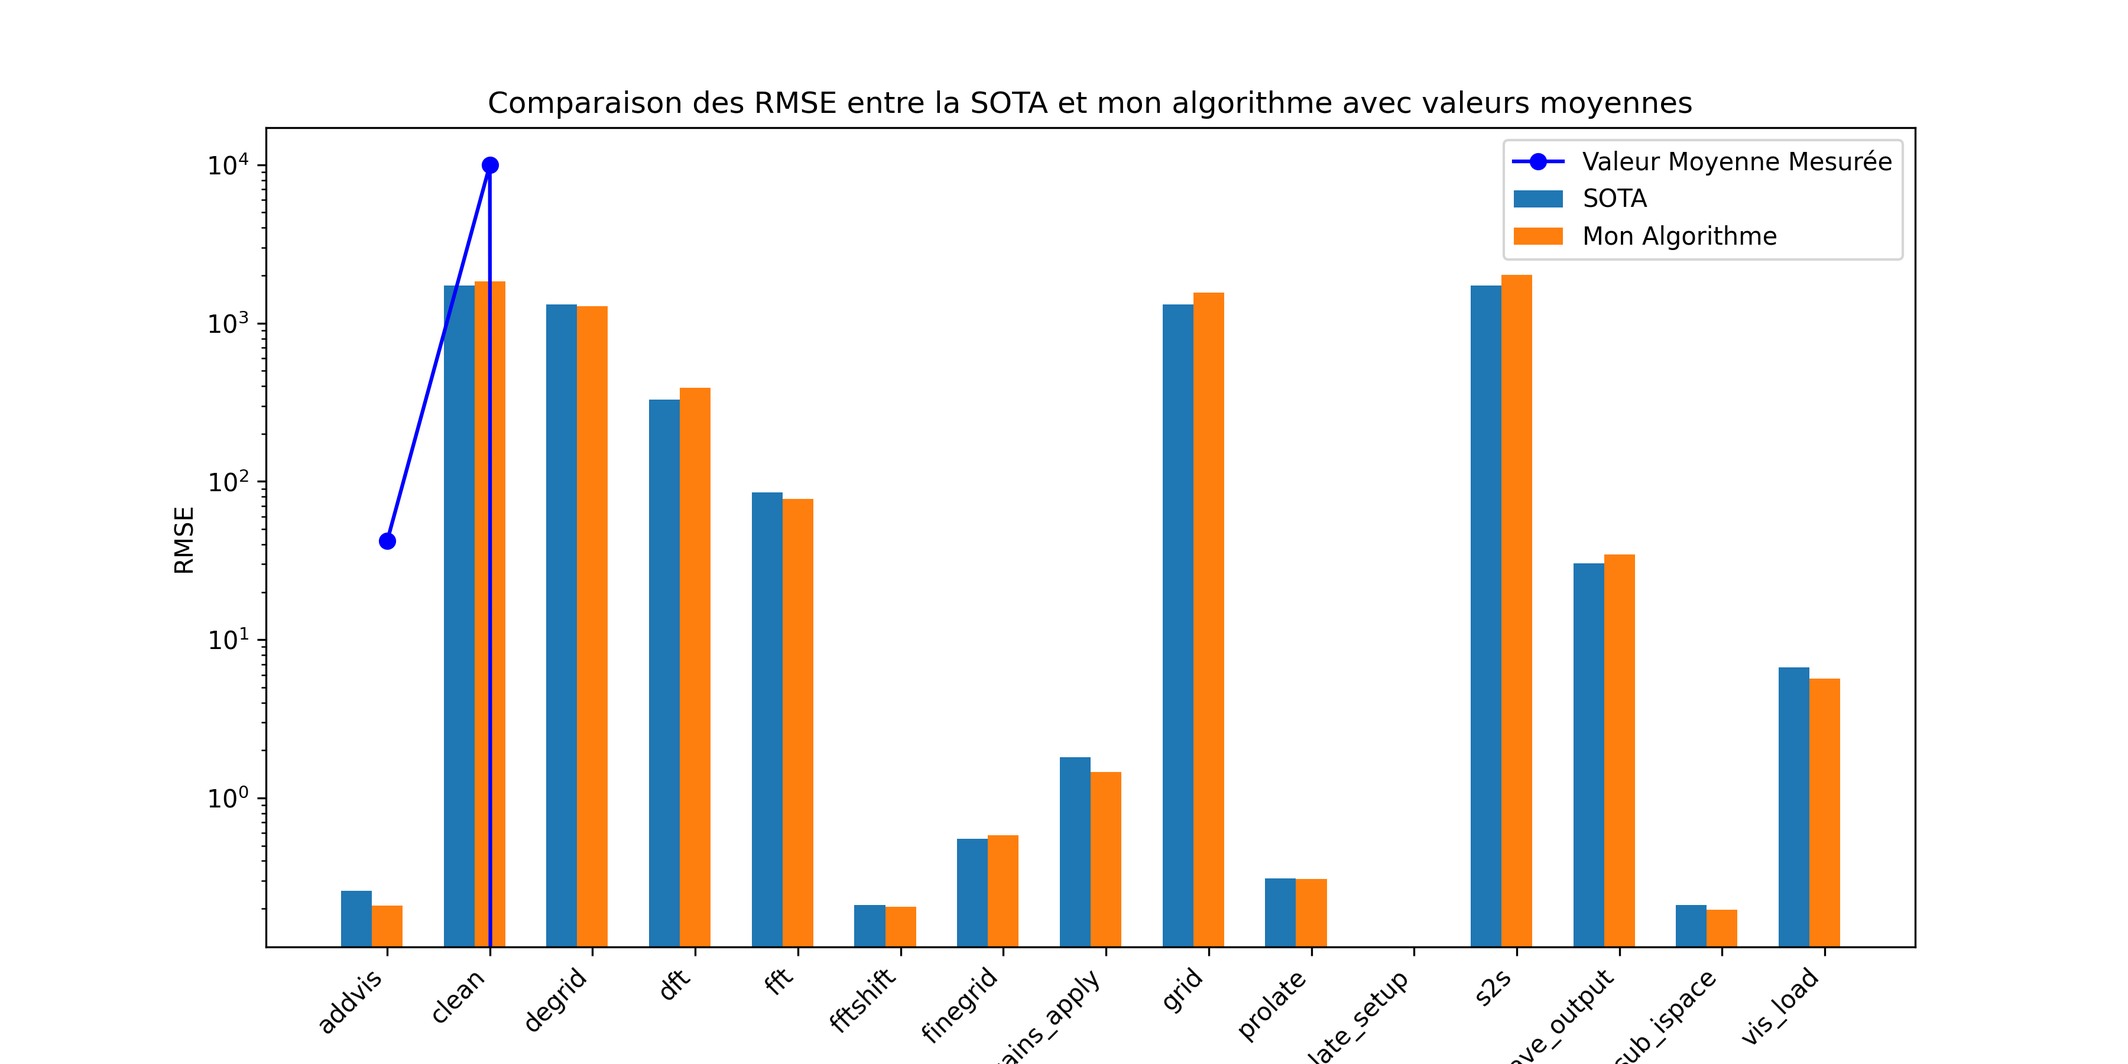
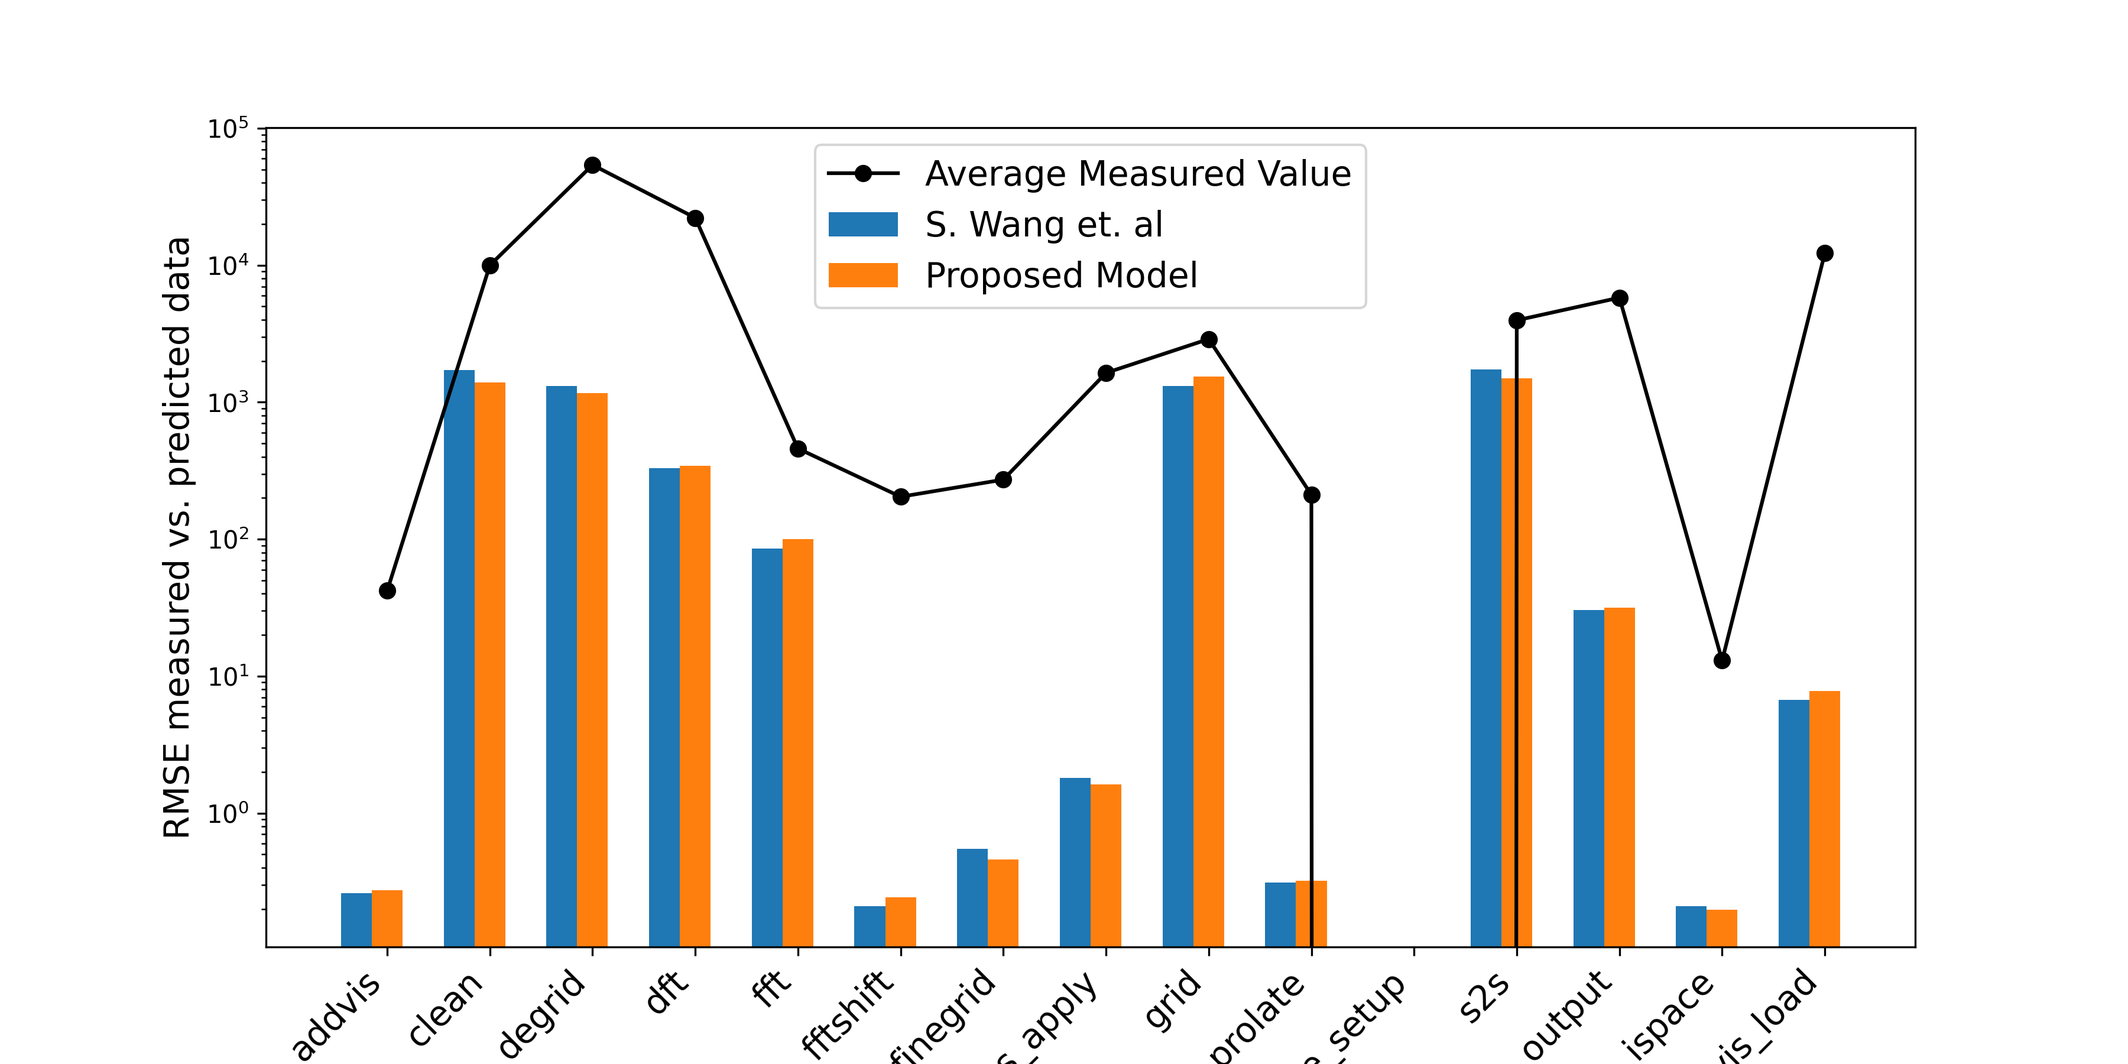
Signed-off-by: Ophélie Renaud <ophelie.renaud508@gmail.com>

diff --git a/polynomial_timing/timing_cpu/timing_benchmark_generation.py b/polynomial_timing/timing_cpu/timing_benchmark_generation.py
@@ -93,18 +93,18 @@ def extract_parts(filename):
 # Définition des Tests
 # ================================
 tests = [
-    #("time_constant_setups", [NUM_SAMPLES]), #int NUM_SAMPLES
-    #("time_gridsize_setups", [NUM_SAMPLES, (G0, Gf, Gs)]), #int NUM_SAMPLES, int GRID_SIZE
-    #("time_visibility_setups", [NUM_SAMPLES, (V0, Vf, Vs)]), #int NUM_SAMPLES, int NUM_VISIBILITIES
-    #("time_save_output", [NUM_SAMPLES, (G0, Gf, Gs)]), #int NUM_SAMPLES, int GRID_SIZE
-    #("time_dft", [NUM_SAMPLES, (C0, Cf, Cs), (V0, Vf, Vs), V0]), #int NUM_SAMPLES, int NUM_MINOR_CYCLES, int NUM_VISIBILITIES, int NUM_ACTUAL_VISIBILITIES
-    #("time_gains_application", [NUM_SAMPLES, (V0, Vf, Vs), V0]), #int NUM_SAMPLES, int NUM_VISIBILITIES, int NUM_ACTUAL_VISIBILITIES
-   # ("time_add_visibilities", [NUM_SAMPLES, (V0, Vf, Vs)]), #int NUM_SAMPLES, int NUM_VISIBILITIES
-   # ("time_prolate", [NUM_SAMPLES, (G0, Gf, Gs)]), #int NUM_SAMPLES, int GRID_SIZE
-   # ("time_finegrid", [NUM_SAMPLES, (V0, Vf, Vs), V0]), #int NUM_SAMPLES, int NUM_VISIBILITIES, int NUM_ACTUAL_VISIBILITIES
-   # ("time_subtract_ispace", [NUM_SAMPLES, (G0, Gf, Gs)]), #int NUM_SAMPLES, int GRID_SIZE
-   # ("time_fftshift", [NUM_SAMPLES, (G0, Gf, Gs)]), #int NUM_SAMPLES, int GRID_SIZE
-    #("time_fft", [NUM_SAMPLES, (G0, Gf, Gs)]), #int NUM_SAMPLES, int GRID_SIZE
+    ("time_constant_setups", [NUM_SAMPLES]), #int NUM_SAMPLES
+    ("time_gridsize_setups", [NUM_SAMPLES, (G0, Gf, Gs)]), #int NUM_SAMPLES, int GRID_SIZE
+    ("time_visibility_setups", [NUM_SAMPLES, (V0, Vf, Vs)]), #int NUM_SAMPLES, int NUM_VISIBILITIES
+    ("time_save_output", [NUM_SAMPLES, (G0, Gf, Gs)]), #int NUM_SAMPLES, int GRID_SIZE
+    ("time_dft", [NUM_SAMPLES, (C0, Cf, Cs), (V0, Vf, Vs), V0]), #int NUM_SAMPLES, int NUM_MINOR_CYCLES, int NUM_VISIBILITIES, int NUM_ACTUAL_VISIBILITIES
+    ("time_gains_application", [NUM_SAMPLES, (V0, Vf, Vs), V0]), #int NUM_SAMPLES, int NUM_VISIBILITIES, int NUM_ACTUAL_VISIBILITIES
+    ("time_add_visibilities", [NUM_SAMPLES, (V0, Vf, Vs)]), #int NUM_SAMPLES, int NUM_VISIBILITIES
+    ("time_prolate", [NUM_SAMPLES, (G0, Gf, Gs)]), #int NUM_SAMPLES, int GRID_SIZE
+    ("time_finegrid", [NUM_SAMPLES, (V0, Vf, Vs), V0]), #int NUM_SAMPLES, int NUM_VISIBILITIES, int NUM_ACTUAL_VISIBILITIES
+    ("time_subtract_ispace", [NUM_SAMPLES, (G0, Gf, Gs)]), #int NUM_SAMPLES, int GRID_SIZE
+    ("time_fftshift", [NUM_SAMPLES, (G0, Gf, Gs)]), #int NUM_SAMPLES, int GRID_SIZE
+    ("time_fft", [NUM_SAMPLES, (G0, Gf, Gs)]), #int NUM_SAMPLES, int GRID_SIZE
     ("time_hogbom", [NUM_SAMPLES, (G0, Gf, Gs),(C0, Cf, Cs)]), # int NUM_SAMPLES, int GRID_SIZE, int NUM_MINOR_CYCLES
 ]
 

diff --git a/polynomial_timing/timing_cpu/src/timings.c b/polynomial_timing/timing_cpu/src/timings.c
@@ -536,3 +536,52 @@ void time_hogbom(int NUM_SAMPLES, int GRID_SIZE, int NUM_MINOR_CYCLES){
 	free(in);
 	free(out);
 }
+void time_grid(int NUM_SAMPLES, int GRID_SIZE, int NUM_VISIBILITIES){
+  	clock_t* grid_timings = (clock_t*)malloc(NUM_SAMPLES * sizeof(clock_t));
+
+	clock_t start, end;
+	clock_t CLOCKS_PER_MS = CLOCKS_PER_SEC / 1000;
+
+  int num_kernel = 0;
+  int total_kernel_samples = 0;
+
+  	PRECISION2* kernels = (PRECISION2*)malloc(sizeof(PRECISION2) * GRID_SIZE * GRID_SIZE);
+	for(int i = 0; i < GRID_SIZE * GRID_SIZE; ++i){
+		kernels[i] = (float)rand()/(float)RAND_MAX;
+	}
+    int2* kernel_supports = (int2*)malloc(sizeof(int2) * GRID_SIZE * GRID_SIZE);
+	for(int i = 0; i < GRID_SIZE * GRID_SIZE; ++i){
+		kernel_supports[i] = (int)rand()/(int)RAND_MAX;
+	}
+    PRECISION3* vis_uvw_coords = (PRECISION3*)malloc(sizeof(PRECISION3) * GRID_SIZE * GRID_SIZE);
+	for(int i = 0; i < GRID_SIZE * GRID_SIZE; ++i){
+		vis_uvw_coords[i] = (float)rand()/(float)RAND_MAX;
+	}
+    PRECISION2* visibilities = (PRECISION2*)malloc(sizeof(PRECISION2) * GRID_SIZE * GRID_SIZE);
+	for(int i = 0; i < GRID_SIZE * GRID_SIZE; ++i){
+		visibilities[i] = (float)rand()/(float)RAND_MAX;
+	}
+    Config config;
+	config_struct_set_up(GRID_SIZE, 17, &config);
+	config.weak_source_percent_gc = 0;
+	config.weak_source_percent_img = 0;
+	config.psf_max_value = 1.f;
+
+    PRECISION2* uv_grid = (PRECISION2*)malloc(sizeof(PRECISION2) * GRID_SIZE * GRID_SIZE);
+
+  	for(int i = 0; i < NUM_SAMPLES; ++i){
+		start = clock();
+		gridding_actor(GRID_SIZE, NUM_VISIBILITIES, num_kernel, total_kernel_samples, kernels, kernel_supports,vis_uvw_coords,visibilities, &config,uv_grid);
+		end = clock();
+		grid_timings[i] = ((double) (end - start)) / CLOCKS_PER_MS + 0.5;
+	}
+    save_timings(NUM_SAMPLES, "grid_timings", grid_timings, GRID_SIZE, NUM_VISIBILITIES,0);
+
+    free(kernels);
+    free(kernel_supports);
+    free(vis_uvw_coords);
+    free(visibilities);
+    free(uv_grid);
+
+
+}

diff --git a/polynomial_timing/plot_rmse_compare.py b/polynomial_timing/plot_rmse_compare.py
@@ -10,7 +10,7 @@ sota_rmse = [0.26, 1722.01, 1310.35, 328.79, None, 85.37, 0.21, 0.55, 1.81, None
 my_rmse = [rmse * random.uniform(0.8, 1.2) if rmse is not None else None for rmse in sota_rmse]
 
 # Valeurs moyennes mesurées
-average_measure = [42, 9990, 0, 0, 0, 0, 0, 0, 0, 0, 0, 0, 0, 0, 0, 0, 0]
+average_measure = [42, 9990, 53963, 22174, 58, 459, 204, 272, 1636, 53, 2890, 211, 0, 3961, 5794, 13, 12223]
 
 # Filtrer les valeurs valides
 indices = [i for i, rmse in enumerate(sota_rmse) if rmse is not None]
@@ -28,20 +28,20 @@ fig, ax = plt.subplots(figsize=(12, 6))
 width = 0.3  # Largeur des barres
 
 # Barres pour la SOTA
-ax.bar(x - width, sota_valid, width, label='SOTA')
+ax.bar(x - width, sota_valid, width, label='S. Wang et. al')
 
 # Barres pour ton algo
-ax.bar(x, my_valid, width, label='Mon Algorithme')
+ax.bar(x, my_valid, width, label='Proposed Model')
 
 # Courbe des valeurs moyennes mesurées
-ax.plot(x, avg_valid, marker='o', linestyle='-', color='blue', label='Valeur Moyenne Mesurée')
+ax.plot(x, avg_valid, marker='o', linestyle='-', color='black', label='Average Measured Value')
 
 # Labels et légende
 ax.set_xticks(x)
-ax.set_xticklabels(labels, rotation=45, ha='right')
-ax.set_ylabel("RMSE")
-ax.set_title("Comparaison des RMSE entre la SOTA et mon algorithme avec valeurs moyennes")
-ax.legend()
+ax.set_xticklabels(labels, rotation=45, ha='right', fontsize=14)
+ax.set_ylabel("RMSE measured vs. predicted data", fontsize=14)
+#ax.set_title("Comparaison des RMSE entre la SOTA et mon algorithme avec valeurs moyennes")
+ax.legend(fontsize=14)
 ax.set_yscale('log')
 
 # Enregistrer la figure en PNG

diff --git a/README.md b/README.md
@@ -13,7 +13,7 @@ Algorithm performance is influenced by parameters such as the number of visibili
 
 To achieve this, we provide tools that automatically estimate the execution time of dataflow actors for each targeted architecture and simulate algorithm performance by varying a set of parameter values automatically.
 
-<img src="https://raw.githubusercontent.com/Ophelie-Renaud/simsdp-generic-imaging-pipeline/refs/heads/main/experimental_result_data/project_goal2.png" style="zoom:50%;" />
+<img src="https://raw.githubusercontent.com/Ophelie-Renaud/simsdp-generic-imaging-pipeline/refs/heads/main/experimental_result_data/project_goal2.png" style="zoom:30%;" />
 
 ---
 
@@ -81,124 +81,22 @@ This repository contains six main directories, categorized by the number of freq
 ### Parameterized timing estimation
 <details>
     <summary style="cursor: pointer; color: #007bff;"> Click here to reveal the section </summary>
-
-Timings definition consist in polynomials calculation, the procedure is the following. For each dataflow pipeline configuration do:
-This section consist in setting up a method to define actor timings with a fitting function to facilitate algorithm comparison varying parameters. The method consist in building sampling (stored in /averages folder) and compute fitting function for each actor. Here are the instruction for running the method build by Sunrise Wang which a manual method evaluating few samples of data. The automated method extending Sunrise\'s work can be found in [polynomials_timing](https://gitlab-research.centralesupelec.fr/dark-era/simsdp-generic-imaging-pipeline/-/tree/main/polynomial_timing?ref_type=heads) folder. Here are the manual and tedious method:
-
-1. Build the the benchmark that will be stored in [averages](https://gitlab-research.centralesupelec.fr/dark-era/simsdp-generic-imaging-pipeline/-/tree/main/polynomial_timing/averages?ref_type=heads) folder:
-   1. In **PREESM**, the timings algorithm are provided in the algo/ folder select for example `grid_timing.diagram` and tune the parameter values: `NUM_VIS` [1000000; 2000000;3000000;4000000], `GRID_SIZE` [65536; 262144; 589824; 1048576; 1638400; 2359296; 3211264; 4194304]; , `NUM_MINOR_CYCLE`.
-   2. Open `timing.scenario` and check that the algorithm is `grid_timing.pi`
-   3. Generated the code: click on `codegen2.worklow` > `run workflow` > select `timing.scenario. This has to be done for each configuration.
-   
-2. Run the code: `cd Code` > `cmake.` > `make` > `./project_name`, a file with the computed timing is generated in the folder.
-
-3. For each configuration concatenate the file such as : `time acquisition1; GRID_SIZE1; NUM_VISIBILITY1;time acquisition2; GRID_SIZE2; NUM_VISIBILITY2;...`
-
-4. Executing the `plot_and_fit_averages.py` script to obtain the fit function. Install scipy `pip install scipy`. Execute : `python plot_and_fit_averages.py <input_file> <num_axis[1-2]> <dof[1-2]> <num_x_datapoints[1]> <num_y_datapoints [file_len/3]>` where the two last parameter are used for deconv,degridding etc. ex `python plot_and_fit_averages.py degrid.csv 2 1 8 4`(on the benchmark there is 8 GRID_SIZE and 4 NUM_VIS).
-
-   <div style="text-align: center;">
-       <img src="https://raw.githubusercontent.com/Ophelie-Renaud/simsdp-generic-imaging-pipeline/refs/heads/main/polynomial_timing/Figure_1.png" alt="Description alternative" style="max-width: 80%;">
-       <p><b>Figure 1:</b> 
-       <pre><code>python plot_and_fit_averages.py degrid.csv 2 1 8 4</code></pre>  
-   	RMSE: 2929.136239024687; <br>
-      Polynomials: [-7.57870456e+02  1.11207625e-03  4.67772660e-04]
-      </p>
-   </div>
-
-   <div style="text-align: center;">
-       <img src="https://raw.githubusercontent.com/Ophelie-Renaud/simsdp-generic-imaging-pipeline/refs/heads/main/polynomial_timing/Figure_2.png" alt="Description alternative" style="max-width: 80%;">
-       <p><b>Figure 2:</b> 
-   	In the original GIP paper the retain value are:
-       <pre><code>python plot_and_fit_averages.py degrid.csv 2 2 8 4</code></pre>   
-   	RMSE: 1310.353129574978; <br>
-    Polynomials:  [-5.38868774e+02  8.93032173e-04 -1.99593895e-11  9.06752993e-04
-     1.90789332e-10 -2.23468265e-10]
-      </p>
-   </div>
-
-   <div style="text-align: center;">
-    <img src="https://raw.githubusercontent.com/Ophelie-Renaud/simsdp-generic-imaging-pipeline/refs/heads/main/polynomial_timing/Figure_3.png" alt="Description alternative" style="max-width: 80%;">
-    <p><b>Figure 3:</b> 
-   The dof value that offer the best RMSE for 8x4 input parameter is 6:
-    <pre><code>python plot_and_fit_averages.py degrid.csv 2 6 8 4</code></pre>  
-   RMSE: 254.3481181405604; <br>
-   Polynomials: [ 5.31713245e+04 -8.30510174e-02  2.42638662e-08  1.12866458e-14
-    -5.01452759e-21  3.07430467e-31  1.10957450e-34 -2.16795144e-02
-     3.83814482e-08 -2.25243447e-14  4.15817783e-21  2.80271118e-28
-    -1.08010603e-34  8.34323283e-09 -5.89982326e-15  4.00900882e-21
-    -1.06617401e-27  1.09531005e-34 -5.42048113e-15 -2.23817508e-22
-    -1.06094371e-28 -3.91299875e-36  2.55420177e-21  1.59977576e-28
-     1.48860113e-35 -5.80263610e-28 -2.24210276e-35  5.00611356e-35]
-   </p>
-   </div>
-
-
-   > [!NOTE]
->
-> The axis represent: 
-   >
-   > - z:  the execution time for each configuration.
-   >
-   > - x: the fisrt parameter, here GRID_SIZE.
-   >
-   > - y: the second parameter, here NUM_VIS
-   >
-   > For each Figure:
-   >
-   > - The upper plot represent the measured data for each x,y value.
-   >
-   > - The bottom plot represent the polynomial model of the fitting function.
-
-We target a Root Mean Square Error (RMSE) as short as possible while minimizing the number of coefficient , the value are the coefficient of the polynomials. The number of coefficients has an impact on the RMSE and must be less than the number of points acquired, otherwise it crashes, you should respect the following:
-
-	num_coeffs = (dof + 1)(dof + 2) / 2 ≤ num_points
-hence:
-
-	dof ≤ (-3 + sqrt(9 + 8 × num_points)) / 2
-
-As you can see all these steps while necessary are tedious manually. We provide a solution in [polynomials_timing](https://gitlab-research.centralesupelec.fr/dark-era/simsdp-generic-imaging-pipeline/-/tree/main/polynomial_timing?ref_type=heads) folder.
+This section consist in setting up a method to define actor timings with a fitting function to facilitate algorithm comparison varying parameters. The method consist in building sampling (stored in /averages folder) and compute fitting function for each actor. The original method was setting up by Sunrise Wang and consist in a manual method evaluating few samples of data (details of the method are available in the [wiki](https://gitlab-research.centralesupelec.fr/dark-era/simsdp-generic-imaging-pipeline/-/wikis/pages), however once benchmark is set up additional instruction can be found in  [polynomials_timing](https://gitlab-research.centralesupelec.fr/dark-era/simsdp-generic-imaging-pipeline/-/tree/main/polynomial_timing?ref_type=heads) folder. The proposed automated method extending Sunrise\'s work can be found in [polynomials_timing](https://gitlab-research.centralesupelec.fr/dark-era/simsdp-generic-imaging-pipeline/-/tree/main/polynomial_timing?ref_type=heads) folder.  
 </details>
 
 ### Run SimSDP on a defined HPC architecture
 
 <details>
     <summary style="cursor: pointer; color: #007bff;"> Click here to reveal the section </summary>
+SimSDP has been [is going to be] updated in order to manage several partitioning mode.
 
-The project already contains the required component to run SimSDP. However you can tune the project as you want.
+- Manual mode (this project): One subgraph on the topgraph is associated to a node architecture.
+- Random mode: The whole graph is partitioned among the available node and distributed in random-workload.
+- Balanced workload mode (the original method, for more detail see [wiki](https://gitlab-research.centralesupelec.fr/dark-era/simsdp-generic-imaging-pipeline/-/wikis/pages)): The whole graph is partitioned among the available node and distributed in balanced-workload.
 
-1. Create a CSV file that will be exploit by the method to generate  multinode multicore HPC S-LAM files. Name this file “SimSDP_archi.csv”  and save it in the **Archi** folder. Your file should look like this:    
+[ToDo] setting up the manual mode.
+</details>
 
-   ```bash
-   Node name;Core ID;Core frequency;Intranode rate;Internode rate
-   Node0;0;2000.0;472.0;9.42
-   Node0;1;2000.0;472.0;9.42
-   Node1;0;2000.0;472.0;9.42
-   ...
-   ```
-   
-2. Configure your network architecture: right click on your project “Preesm > generate custom architecture network”. Choose the network you  want. You can let it as default. It generates a XML file stored in the **Archi** folder (you can update it as you want). Your file should look like this:  
-    ```html
-   <!-- Cluster with shared backbone:3:4:1 -->
-   <?xml version='1.0'?>
-   
-   <!DOCTYPE platform SYSTEM "https://simgrid.org/simgrid.dtd">
-   <platform version="4.1">
-   <zone id="my zone" routing="Floyd">
-   <cluster id="Dragonfly cluster" prefix="Node" radical="0-2" suffix="" speed="1f" bw="125MBps" lat="50us" topology="DRAGONFLY" topo_parameters="1,3;1,2;1,1;3">
-         <prop id="wattage_per_state" value="90.0:90.0:150.0" />
-         <prop id="wattage_range" value="100.0:200.0" />
-     </cluster>
-   </zone>
-   </platform>
-   ```
-3. Run SimSDP: Right-click on the workflow “/Workflows/**hypervisor**.workflow” and select “Preesm > Run Workflow”, In the scenario selection wizard, select “/Scenarios/init_**.scenario
-
-During its execution, the workflow will log information into the  Console of Preesm. When running a workflow, you should always check this console for warnings and errors (or any other useful information).
-
-Additionnaly, the workflow execution generates intermediary dataflow graphs that can be found in the **/Algo/generated/** directory. The C code generated by the workflow is contained in the **/Code/generated/** directory. The simulated data are stored in the **/Simulation** directory.
-
-4. A python notebook is provided in the SimSDP project to analyse the simulator generated files: Launch `jupyter notebook` and open *SimSDPproject/SimulationAnalysis.ipynb*. Make sure that the  CSVs are in the reading path. Load each code to display the trends with  your simulated data.
-   </details>
 ### Run SimSDP on a defined range of architectures
 <details>
     <summary style="cursor: pointer; color: #007bff;"> Click here to reveal the section </summary>
@@ -361,6 +259,10 @@ pages="56--67"
 # Soon the SimSDP resource allocation method
 # Soon the SimSDP proof of concept on HPC system with automated fitting function
 ```
+
+## Wiki
+
+For references and so on take a look on the [wiki](https://gitlab-research.centralesupelec.fr/dark-era/simsdp-generic-imaging-pipeline/-/wikis/pages).
 
 ## Contact  
 

diff --git a/polynomial_timing/README.md b/polynomial_timing/README.md
@@ -9,12 +9,12 @@ The proposed method consist in two automated steps:
 
 ![](https://raw.githubusercontent.com/Ophelie-Renaud/simsdp-generic-imaging-pipeline/refs/heads/main/polynomial_timing/poly_fit.png)
 
-## Run the original method [[r]](#ref)
+## Run the original method [[Generic imaging pipeline]](#ref)
 
 <details>
     <summary style="cursor: pointer; color: #007bff;"> Click here to reveal the section </summary>
 All the steps are detail on the main readme and you have to use this command for each averages/timing files:
-Considering that computation execution time have been manually processed and stored in the Considering **average/** folder then run the following command:
+Considering that computation execution time have been manually processed and stored in the **average/** folder then run the following command:
 
 > [!TIP]
 >
@@ -28,13 +28,13 @@ Considering that computation execution time have been manually processed and sto
 
 `python plot_and_fit_averages.py averages/dft.csv 2 2 4 4`  RMSE = 328.79013774421367 :x:
 
-> NUM_MINOR_CYCLE, NUM_VIS
+> Bottleneck parameters: NUM_MINOR_CYCLE, NUM_VIS
 
 `python plot_and_fit_averages.py averages/dgkernel.csv 1 0 1 0`  RMSE = NA :x:
 
 `python plot_and_fit_averages.py averages/fft.csv 1 1 5 0`  RMSE = 85.36911021588533 :white_check_mark:
 
-> GRID_SIZE
+> Bottleneck parameters: GRID_SIZE
 
 `python plot_and_fit_averages.py averages/fftshift.csv 1 1 5 0`  RMSE = 0.2105075974340459 :white_check_mark:
 
@@ -52,7 +52,7 @@ Considering that computation execution time have been manually processed and sto
 
 `python plot_and_fit_averages.py averages/s2s.csv 2 2 8 4`  RMSE = 1729.33617134492 :x:
 
-> GRID_SIZE, NUM_VIS
+> Bottleneck parameters: GRID_SIZE, NUM_VIS
 
 `python plot_and_fit_averages.py averages/save_output.csv 1 1 5 0`  RMSE = 30.2903978986482  :x:
 
@@ -100,13 +100,13 @@ Here are the result comparing the RMSE between measured values and model result 
 
 > [!NOTE]
 >
-> The process is the same for GPU from the **timing_cpu/** folder if your laptop is equipped with NVIDIA GPU.
+> The process is the same for GPU from the **timing_gpu/** folder if your laptop is equipped with NVIDIA GPU.
 
 </details>
 
 ## Run the automatic method for GPU timing (on remote cluster)
 
-For sure like me you don't have NVIDIA GPU on your laptop. First of all: shame on us. Second of all here are how I obtain my result with the on Grid5000 cluster and on Ruche Mesocentre:
+[On going work] For sure like me you don't have NVIDIA GPU on your laptop. First of all: shame on us. Second of all here are how I obtain my result with the on Grid5000 cluster and on Ruche Mesocentre:
 
 #### Grid5000 cluster
 
@@ -223,4 +223,5 @@ sbatch job_timing.sh
 
 ## References
 
-<a id="ref"></a> *[[r]](https://hal.science/hal-04361151/file/paper_dasip24_5_wang_updated-2.pdf) S. Wang, N. Gac, H. Miomandre, J.-F. Nezan, K. Desnos, F. Orieux « An Initial Framework for Prototyping Radio-Interferometric Imaging Pipelines»*.
+<a id="ref"></a> [Generic imaging pipeline](https://hal.science/hal-04361151/file/paper_dasip24_5_wang_updated-2.pdf): S. Wang, N. Gac, H. Miomandre, J.-F. Nezan, K. Desnos, F. Orieux « An Initial Framework for Prototyping Radio-Interferometric Imaging Pipelines».
+
